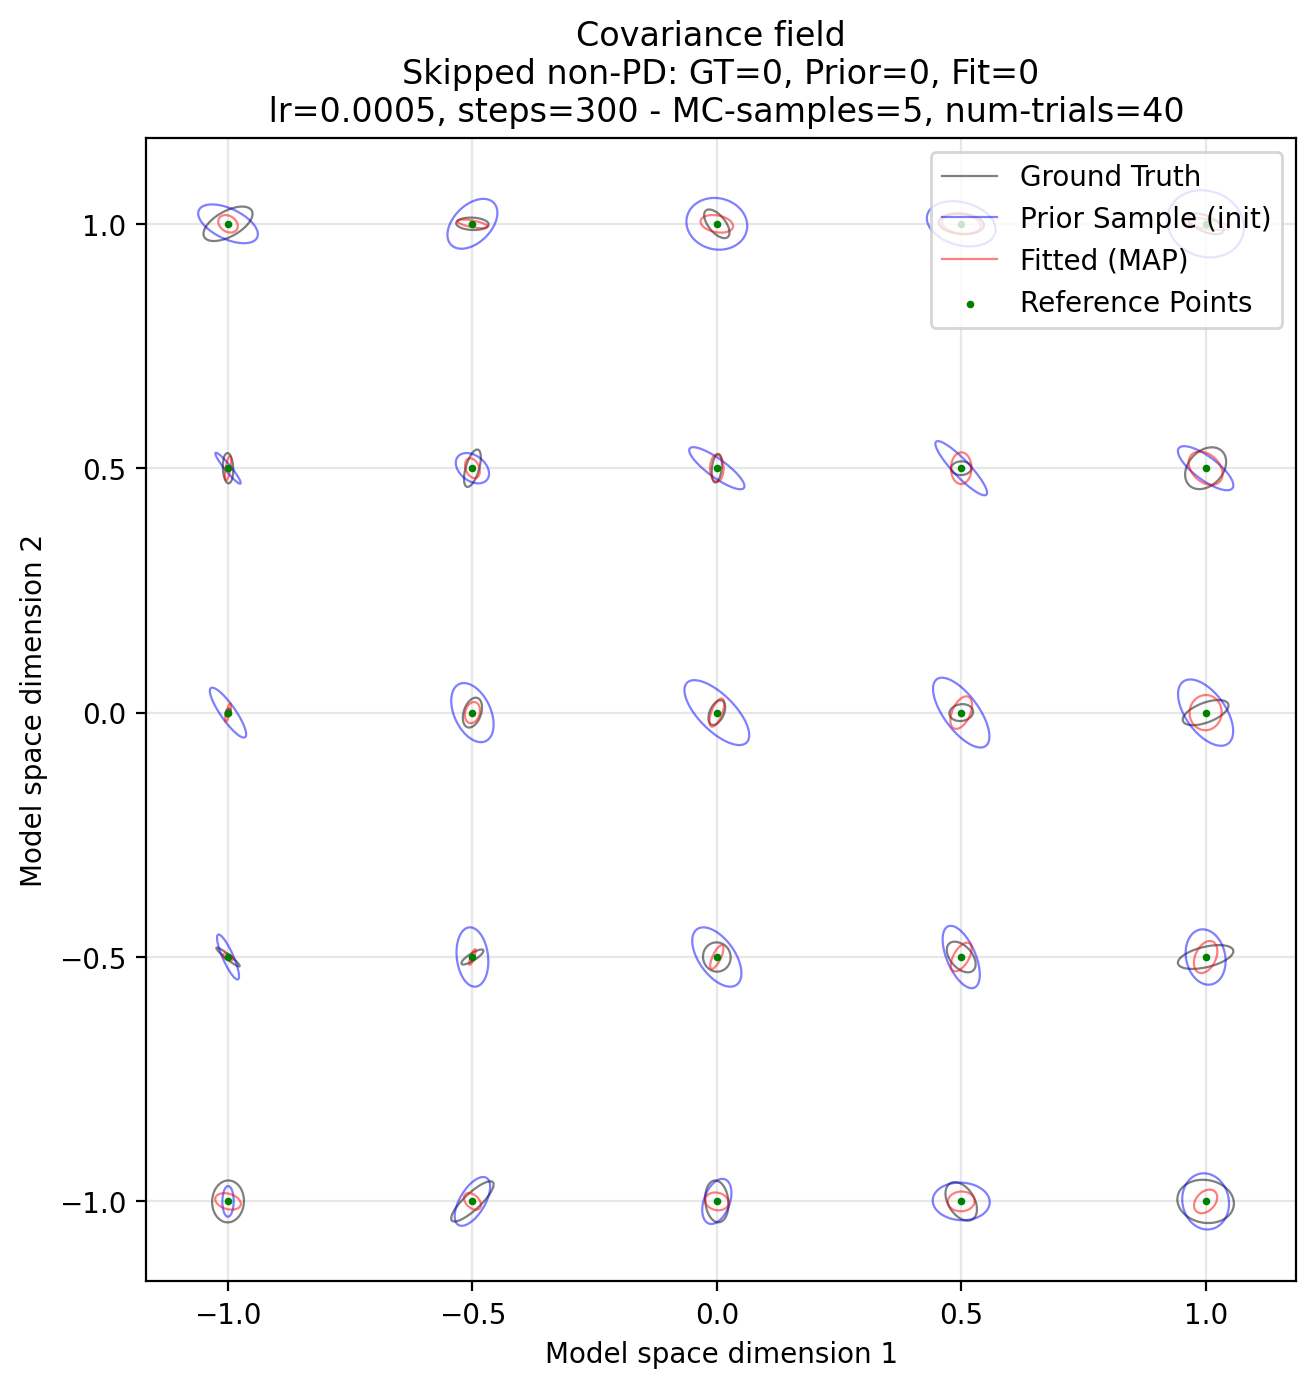
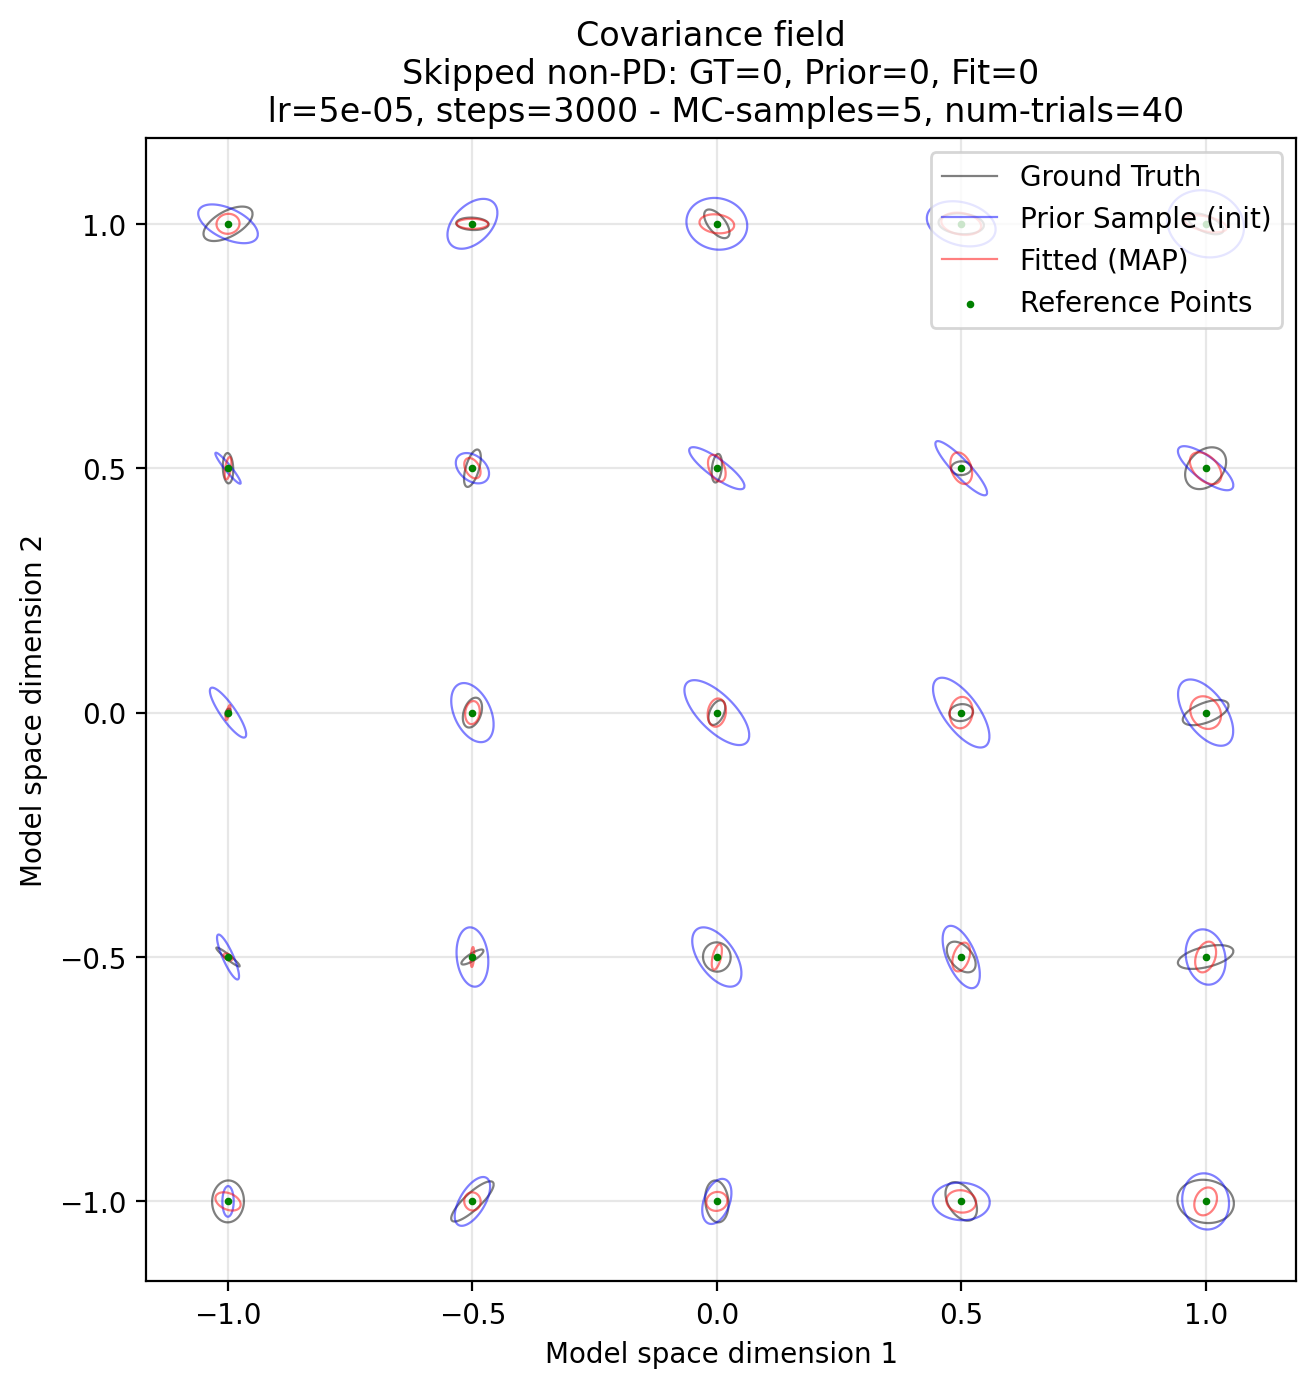
tdqm progress bar

diff --git a/src/psyphy/inference/map_optimizer.py b/src/psyphy/inference/map_optimizer.py
@@ -16,6 +16,8 @@ Connections
 
 from __future__ import annotations
 
+import contextlib
+
 import jax
 import optax
 
@@ -47,8 +49,10 @@ class MAPOptimizer(InferenceEngine):
         momentum: float = 0.9,
         optimizer: optax.GradientTransformation | None = None,
         *,
-        track_history: bool = False,
+        track_history: bool = True,
         log_every: int = 1,
+        progress_every: int = 10,
+        show_progress: bool = False,
         max_grad_norm: float | None = 1.0,
     ):
         """Create a MAP optimizer.
@@ -67,6 +71,16 @@ class MAPOptimizer(InferenceEngine):
             When True, record loss history during fitting for plotting.
         log_every : int, optional
             Record every N steps (also records the last step).
+        progress_every : int, optional
+            Update the progress-bar loss display every N steps (and the last step)
+            when show_progress=True.
+            This is kept separate from log_every so you can record loss at high
+            frequency for plotting (e.g. log_every=1) without forcing a device->host
+            sync for the progress UI every step.
+        show_progress : bool, optional
+            When True, display a tqdm progress bar during fitting.
+            This is a UI feature: if tqdm is not installed,
+            fitting proceeds without a progress bar.
         max_grad_norm : float | None, optional
             If set, clip gradients by global norm to this value before applying
             optimizer updates. This stabilizes optimization when gradients blow up.
@@ -82,8 +96,11 @@ class MAPOptimizer(InferenceEngine):
                 optax.clip_by_global_norm(float(max_grad_norm)),
                 base_optimizer,
             )
+
         self.track_history = track_history
         self.log_every = max(1, int(log_every))
+        self.progress_every = max(1, int(progress_every))
+        self.show_progress = bool(show_progress)
         self.max_grad_norm = max_grad_norm
         # Exposed after fit() when tracking is enabled
         self.loss_steps: list[int] = []
@@ -141,6 +158,28 @@ class MAPOptimizer(InferenceEngine):
             self.loss_steps.clear()
             self.loss_history.clear()
 
+        # Optional progress bar.
+        #
+        # Why we *manually* advance the bar:
+        # - When JAX runs on GPU, the first `step(...)` call can spend a long time in
+        #   compilation, and tqdm may not visibly advance if the underlying iterator
+        #   doesn't get a chance to redraw.
+        # - By keeping a normal `range(self.steps)` loop and calling `pbar.update(1)`
+        #   ourselves, we ensure the bar advances exactly once per iteration.
+        #
+        # Performance note: *displaying the loss* requires transferring `loss` from
+        # device -> host, which can add sync overhead. We therefore only attach a
+        # loss postfix every `progress_every` steps.
+        pbar = None
+        if self.show_progress:
+            try:
+                from tqdm.auto import tqdm
+
+                pbar = tqdm(total=self.steps, desc="MAP fit", leave=False)
+            except Exception:
+                # Soft dependency: tqdm not available (or terminal unsuitable).
+                pbar = None
+
         for i in range(self.steps):
             params, opt_state, loss = step(params, opt_state)
 
@@ -157,6 +196,9 @@ class MAPOptimizer(InferenceEngine):
                     f"[MAPOptimizer] Non-finite loss at step {i}: {loss}. "
                     "Stopping early."
                 )
+                if pbar is not None:
+                    with contextlib.suppress(Exception):
+                        pbar.update(1)
                 break
 
             if self.track_history and (
@@ -167,8 +209,27 @@ class MAPOptimizer(InferenceEngine):
                     self.loss_steps.append(i)
                     self.loss_history.append(float(loss))
                 except Exception:
-                    # Best-effort; do not break fitting if logging fails
+                    #  do not break fitting if logging fails
                     pass
+
+            #  progress bar loss display (avoid host sync every step)
+            if pbar is not None and (
+                (i % self.progress_every == 0) or (i == self.steps - 1)
+            ):
+                with contextlib.suppress(Exception):
+                    pbar.set_postfix(loss=float(loss))
+
+            if pbar is not None:
+                with contextlib.suppress(Exception):
+                    pbar.update(1)
+                    # Encourage a redraw occasionally in environments with buffered/stale
+                    # TTY updates.
+                    if (i % self.progress_every == 0) or (i == self.steps - 1):
+                        pbar.refresh()
+
+        if pbar is not None:
+            with contextlib.suppress(Exception):
+                pbar.close()
 
         return MAPPosterior(params=params, model=model)
 

diff --git a/docs/examples/wppm/full_wppm_fit_example.py b/docs/examples/wppm/full_wppm_fit_example.py
@@ -157,7 +157,7 @@ variance_scale = 4e-3
 diag_term = 1e-9
 # for ground-truth model
 bandwidth = 1e-2
-learning_rate = 5e-4  # 5e-5
+learning_rate = 5e-5
 num_steps = 300
 
 task = OddityTask()
